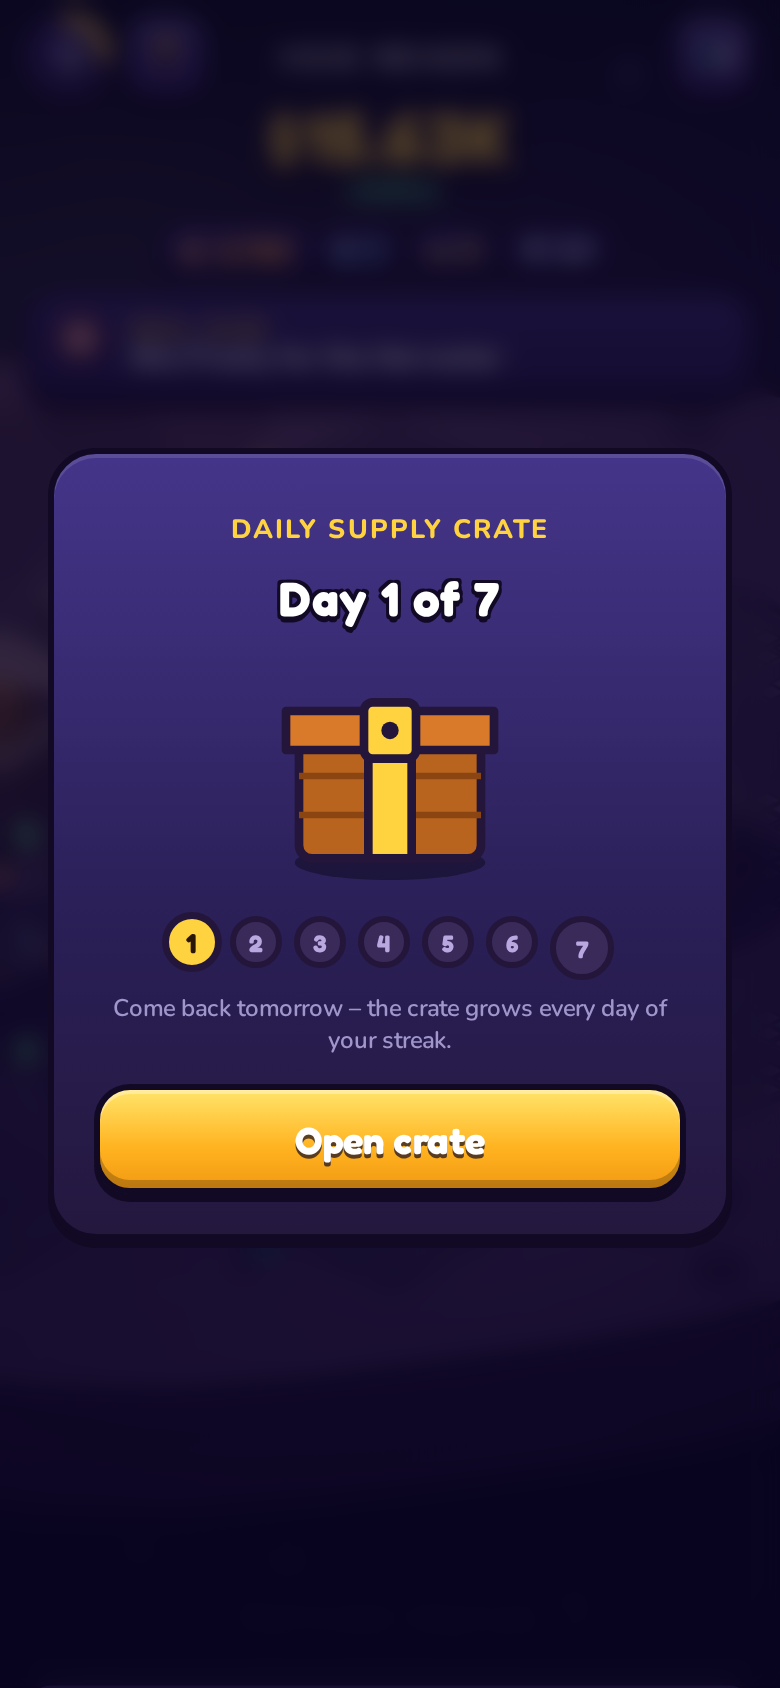
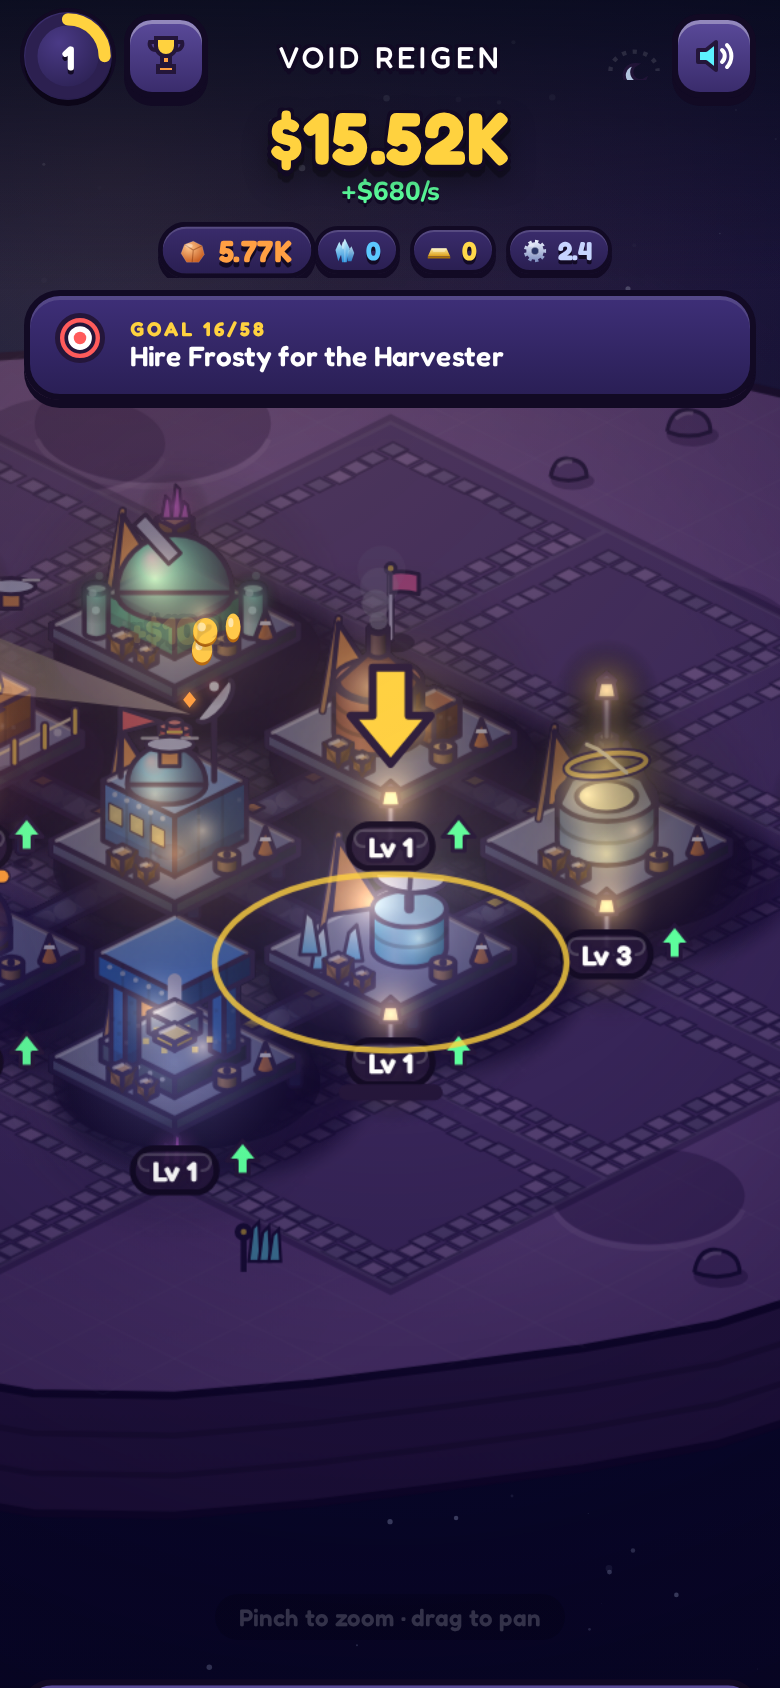
perf: static night glows baked into one layer; fps probe seeds the daily crate as claimed

diff --git a/src/base/view.ts b/src/base/view.ts
@@ -99,6 +99,7 @@ export class BaseView {
   zoomAt(nz: number, cx: number, cy: number) { nz = Math.max(.45, Math.min(1.8, nz)); const r = this.cv.getBoundingClientRect(), lx = cx - r.left, ly = cy - r.top; this.ox = lx - (lx - this.ox) * nz / this.z; this.oy = ly - (ly - this.oy) * nz / this.z; this.z = nz; }
   clamp() { const lx = 330 * this.z, ly = 200 * this.z; this.ox = Math.max(this.w / 2 - lx, Math.min(this.w / 2 + lx, this.ox)); this.oy = Math.max(this.h / 2 - ly, Math.min(this.h / 2 + ly, this.oy)); }
   resize() { const host = this.cv.parentElement!.parentElement || this.cv.parentElement!; const r = host.getBoundingClientRect(); if (!r.width) return; const first = !this.w; this.w = r.width; this.h = r.height; this.cv.width = this.w * this.dpr; this.cv.height = this.h * this.dpr; this.cv.style.width = this.w + 'px'; this.cv.style.height = this.h + 'px'; this.gcv.width = this.cv.width; this.gcv.height = this.cv.height; this.gcv.style.width = this.w + 'px'; this.gcv.style.height = this.h + 'px'; this.gkey = ''; if (first || !this.ox) { this.ox = this.w / 2; this.oy = this.h * FRAME_Y; } this.gcache = null; }
+  private camT: [number, number, number] = [0, 0, 1]; private nl: HTMLCanvasElement | null = null; private nlKey = '';
   private gcache: HTMLCanvasElement | null = null; private gz = 0; private gcv!: HTMLCanvasElement; private gkey = ''; private ggen = 0;
   /** world → client(page) coords */
   screen(gx: number, gy: number): [number, number] { const [x, y] = iso(gx, gy); const r = this.cv.getBoundingClientRect(); return [r.left + this.ox + x * this.z, r.top + this.oy + y * this.z]; }
@@ -243,7 +244,7 @@ export class BaseView {
     let tx = 0, tz = 1;
     if (this.travelT >= 0) { this.travelT += dt; const T = this.travelT, D = .55; if (T < D) { const f = T / D, e = f * f * f; tx = (this.travelTo ? -1 : 1) * e * this.w * 1.6; tz = 1 - e * .35; } else { if (this.rock !== this.travelTo) this.setRock(this.travelTo); const f = Math.min(1, (T - D) / (D * 1.4)), e = 1 - Math.pow(1 - f, 3); tx = (this.travelTo ? 1 : -1) * (1 - e) * this.w * 1.6; tz = .65 + e * .35; if (f >= 1) this.travelT = -1; } }
     c.translate(this.ox + sx + tx, this.oy + sy); c.scale(this.z * tz, this.z * tz);
-    this.groundLayer(this.ox + sx + tx, this.oy + sy, this.z * tz);
+    this.camT = [this.ox + sx + tx, this.oy + sy, this.z * tz]; this.groundLayer(...this.camT);
     // conveyors
     const L = this.links();
     for (const [a, b, r, on] of L) this.belt(a, b, RES[r].color, on);
@@ -301,10 +302,17 @@ export class BaseView {
       c.save(); c.setTransform(1, 0, 0, 1, 0, 0); c.fillStyle = `rgba(10,4,48,${.52 * this.night})`; c.fillRect(0, 0, this.cv.width, this.cv.height); c.restore();
       c.globalCompositeOperation = 'lighter';
       { const g0 = this.guide ? slotByKey(this.guide) : null; if (g0 && (g0.rock || 0) === this.rock) { const [x, y] = iso(g0.gx, g0.gy); glow(c, x, y - 30, 110, '#fff4d0', this.night * .32); } } // keep the goal target readable after dark
+      // static night glows (props, buildings, belts) are baked into one layer, re-baked only when the camera, night level or activity changes
+      { const [cx0, cy0, cz0] = this.camT, nk = `${cx0.toFixed(1)},${cy0.toFixed(1)},${cz0.toFixed(3)},${Math.round(this.night * 40)},${this.rock},${order.map(sl => visible(sl) === 'built' ? (activeOf(sl) ? 'a' : 'i') + tier(sl) : '-').join('')},${L.map(l => l[3] ? 1 : 0).join('')}`;
+        if (!this.nl || this.nl.width !== this.cv.width || this.nl.height !== this.cv.height) { this.nl = document.createElement('canvas'); this.nl.width = this.cv.width; this.nl.height = this.cv.height; this.nlKey = ''; }
+        if (nk !== this.nlKey) { this.nlKey = nk; const main = c, g = this.nl.getContext('2d')!; g.setTransform(1, 0, 0, 1, 0, 0); g.clearRect(0, 0, this.nl.width, this.nl.height); g.setTransform(this.dpr, 0, 0, this.dpr, 0, 0); g.translate(cx0, cy0); g.scale(cz0, cz0); g.globalCompositeOperation = 'lighter';
+          { const c = g; void main;
       for (const d of dec) if (d[2] === 0) { const [x, y] = iso(d[0], d[1]), ice = this.rock === 1, col = ice ? '#dff2ff' : '#ffcf6a'; glow(c, x, y - (ice ? 32 : 28), ice ? 30 : 26, col, this.night * .55); glow(c, x + (ice ? 14 : 0), y + (ice ? 8 : 2), ice ? 38 : 26, col, this.night * (ice ? .3 : .2)); }
       for (const sl of order) { if (visible(sl) !== 'built') continue; const [x, y] = iso(sl.gx, sl.gy), on = activeOf(sl); glow(c, x, y - 4, 90, on ? accentOf(sl) : '#5a6aff', this.night * (on ? .3 : .12)); glow(c, x - 10, y - 30 - tier(sl) * 6, 26, '#ffe9a0', this.night * .38); glow(c, x + 14, y - 12, 14, '#ffd28a', this.night * .32); }
-      { const [hx, hy] = iso(0, 0), ang = this.t * .35, len = 520; c.save(); c.translate(hx + 8, hy - 70); c.rotate(ang); const g = c.createLinearGradient(0, 0, len, 0); g.addColorStop(0, `rgba(255,240,190,${.28 * this.night})`); g.addColorStop(1, 'rgba(255,240,190,0)'); c.fillStyle = g; c.beginPath(); c.moveTo(0, 0); c.lineTo(len, -70); c.lineTo(len, 70); c.closePath(); c.fill(); c.restore(); }
       for (const [a, b, r, on] of L) if (on) { const [x1, y1] = iso(b.gx, a.gy); glow(c, x1, y1, 26, RES[r].color, this.night * .3); }
+          } }
+        c.save(); c.setTransform(1, 0, 0, 1, 0, 0); c.drawImage(this.nl, 0, 0); c.restore(); }
+      { const [hx, hy] = iso(0, 0), ang = this.t * .35, len = 520; c.save(); c.translate(hx + 8, hy - 70); c.rotate(ang); const g = c.createLinearGradient(0, 0, len, 0); g.addColorStop(0, `rgba(255,240,190,${.28 * this.night})`); g.addColorStop(1, 'rgba(255,240,190,0)'); c.fillStyle = g; c.beginPath(); c.moveTo(0, 0); c.lineTo(len, -70); c.lineTo(len, 70); c.closePath(); c.fill(); c.restore(); }
       c.globalCompositeOperation = 'source-over';
     }
     if (this.warpT < 0) for (const sl of order) this.label(sl);
